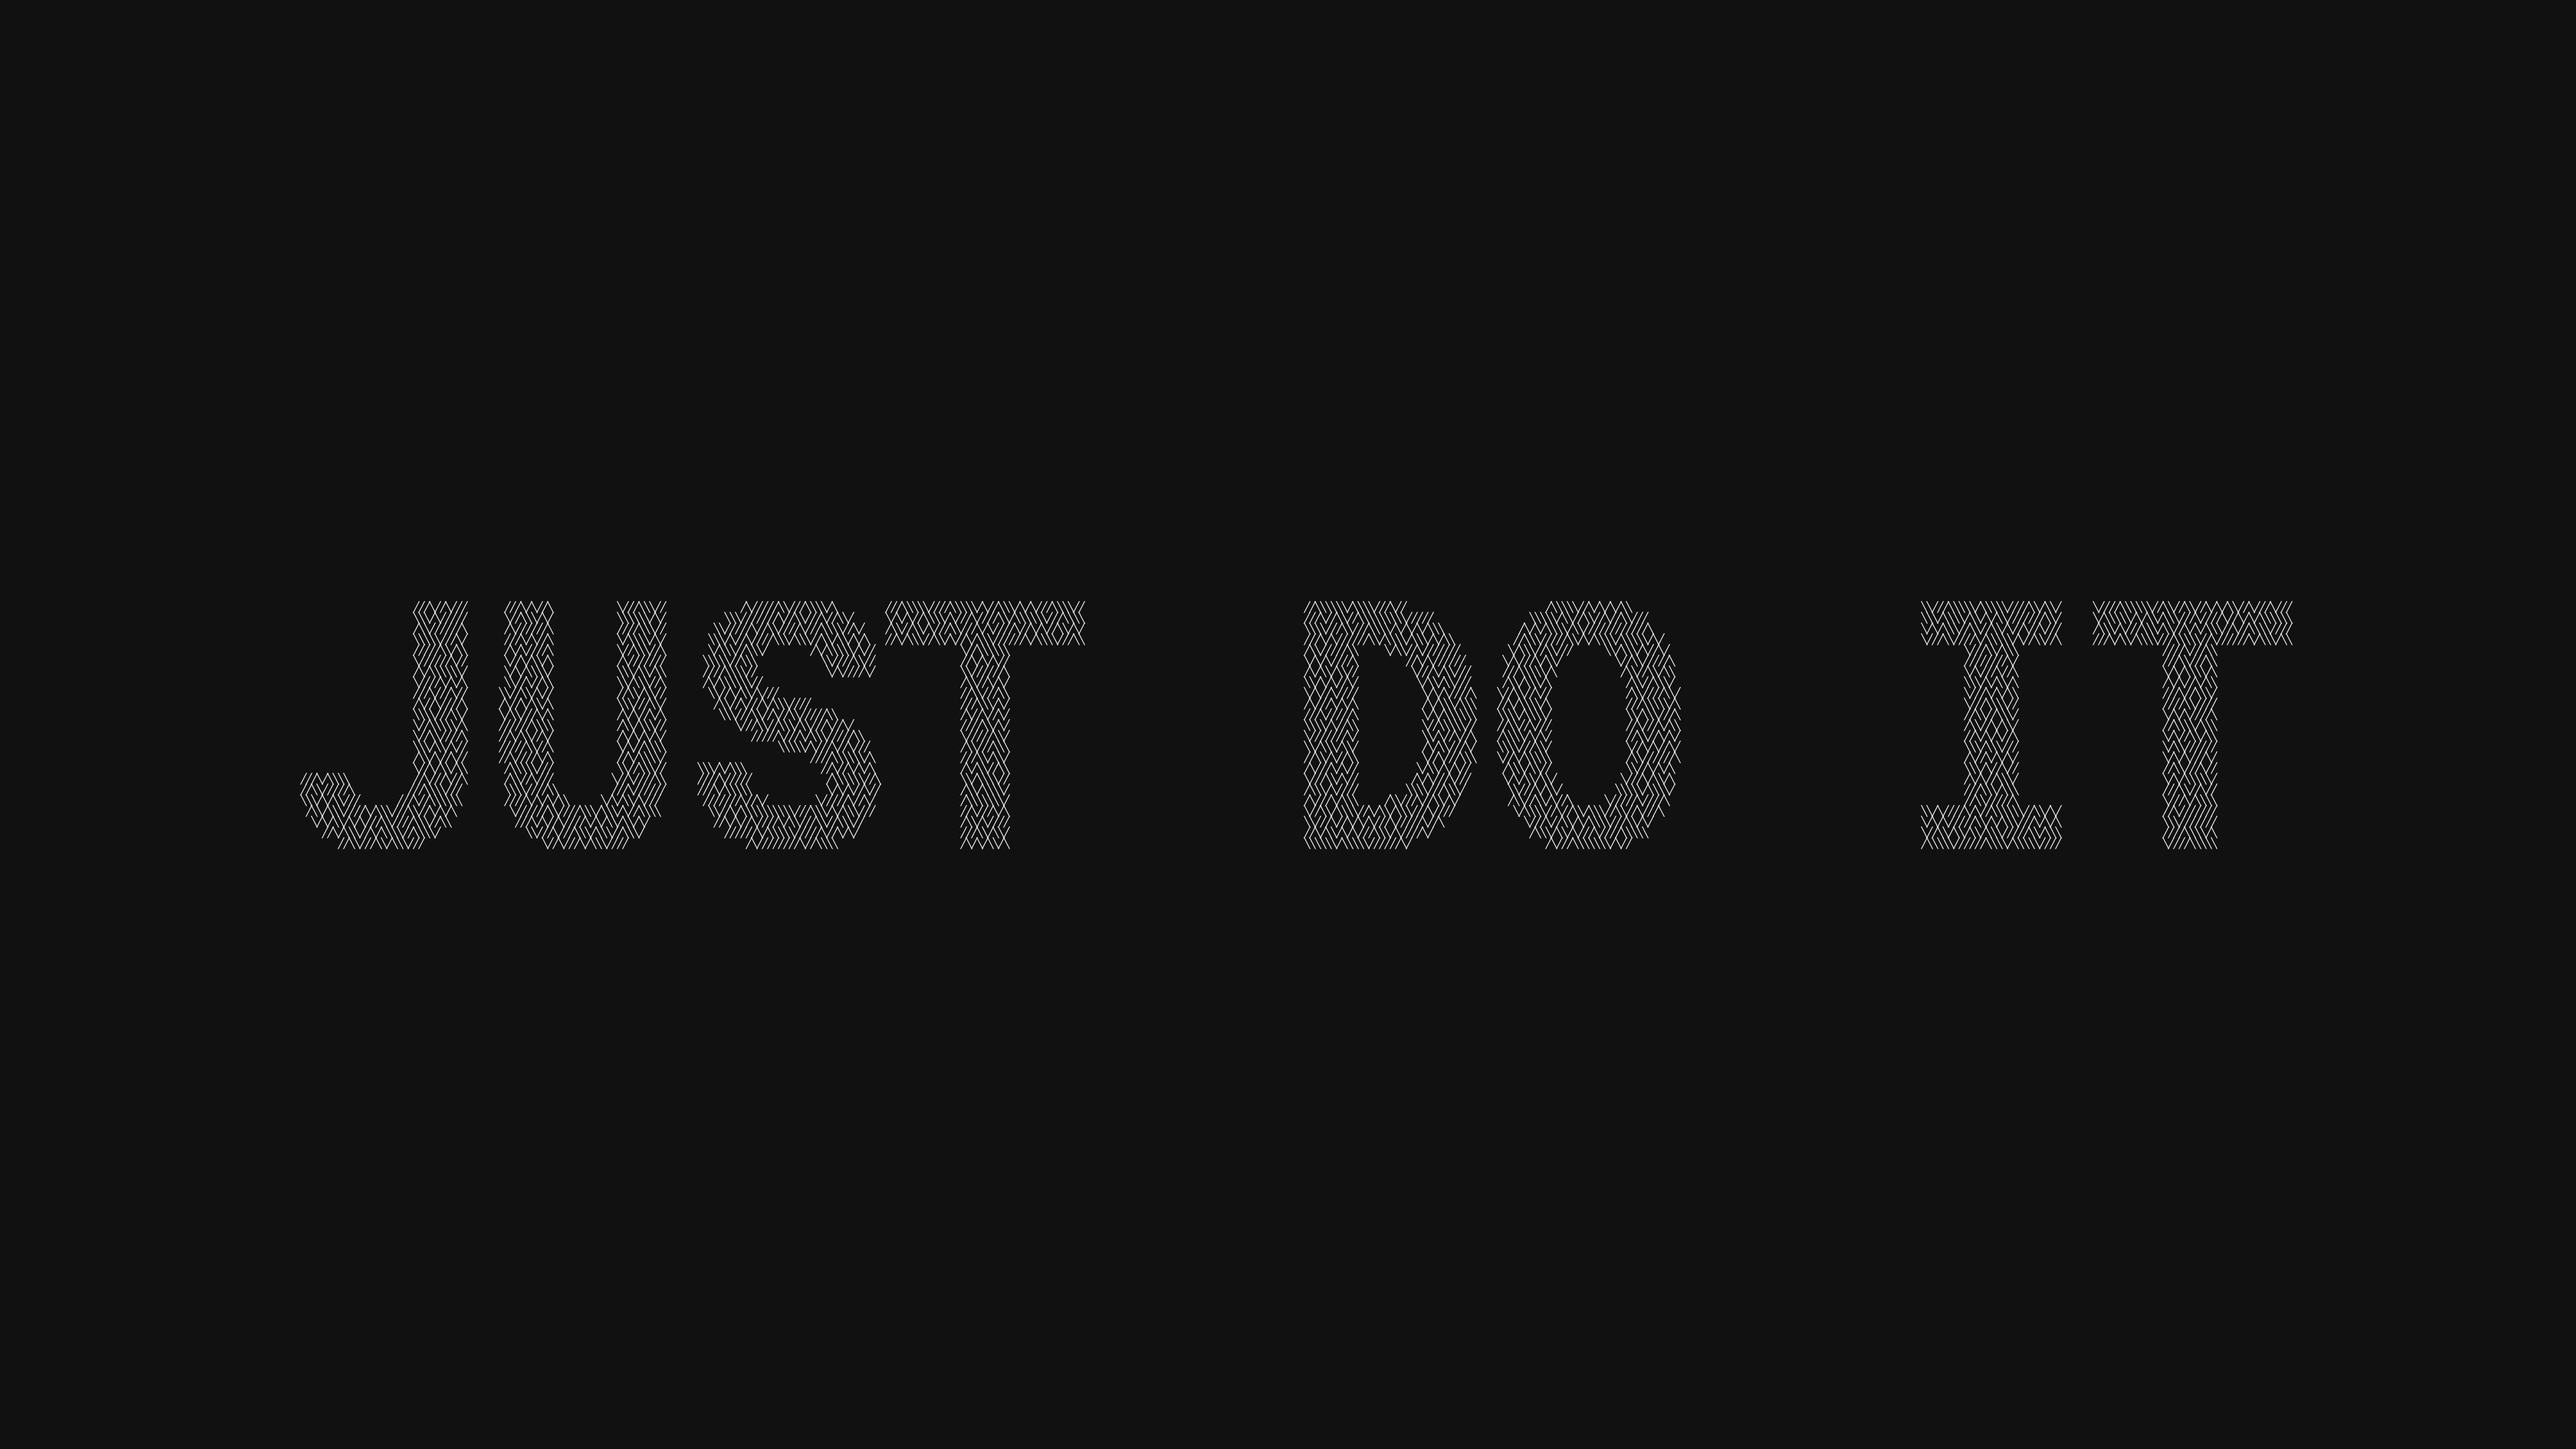
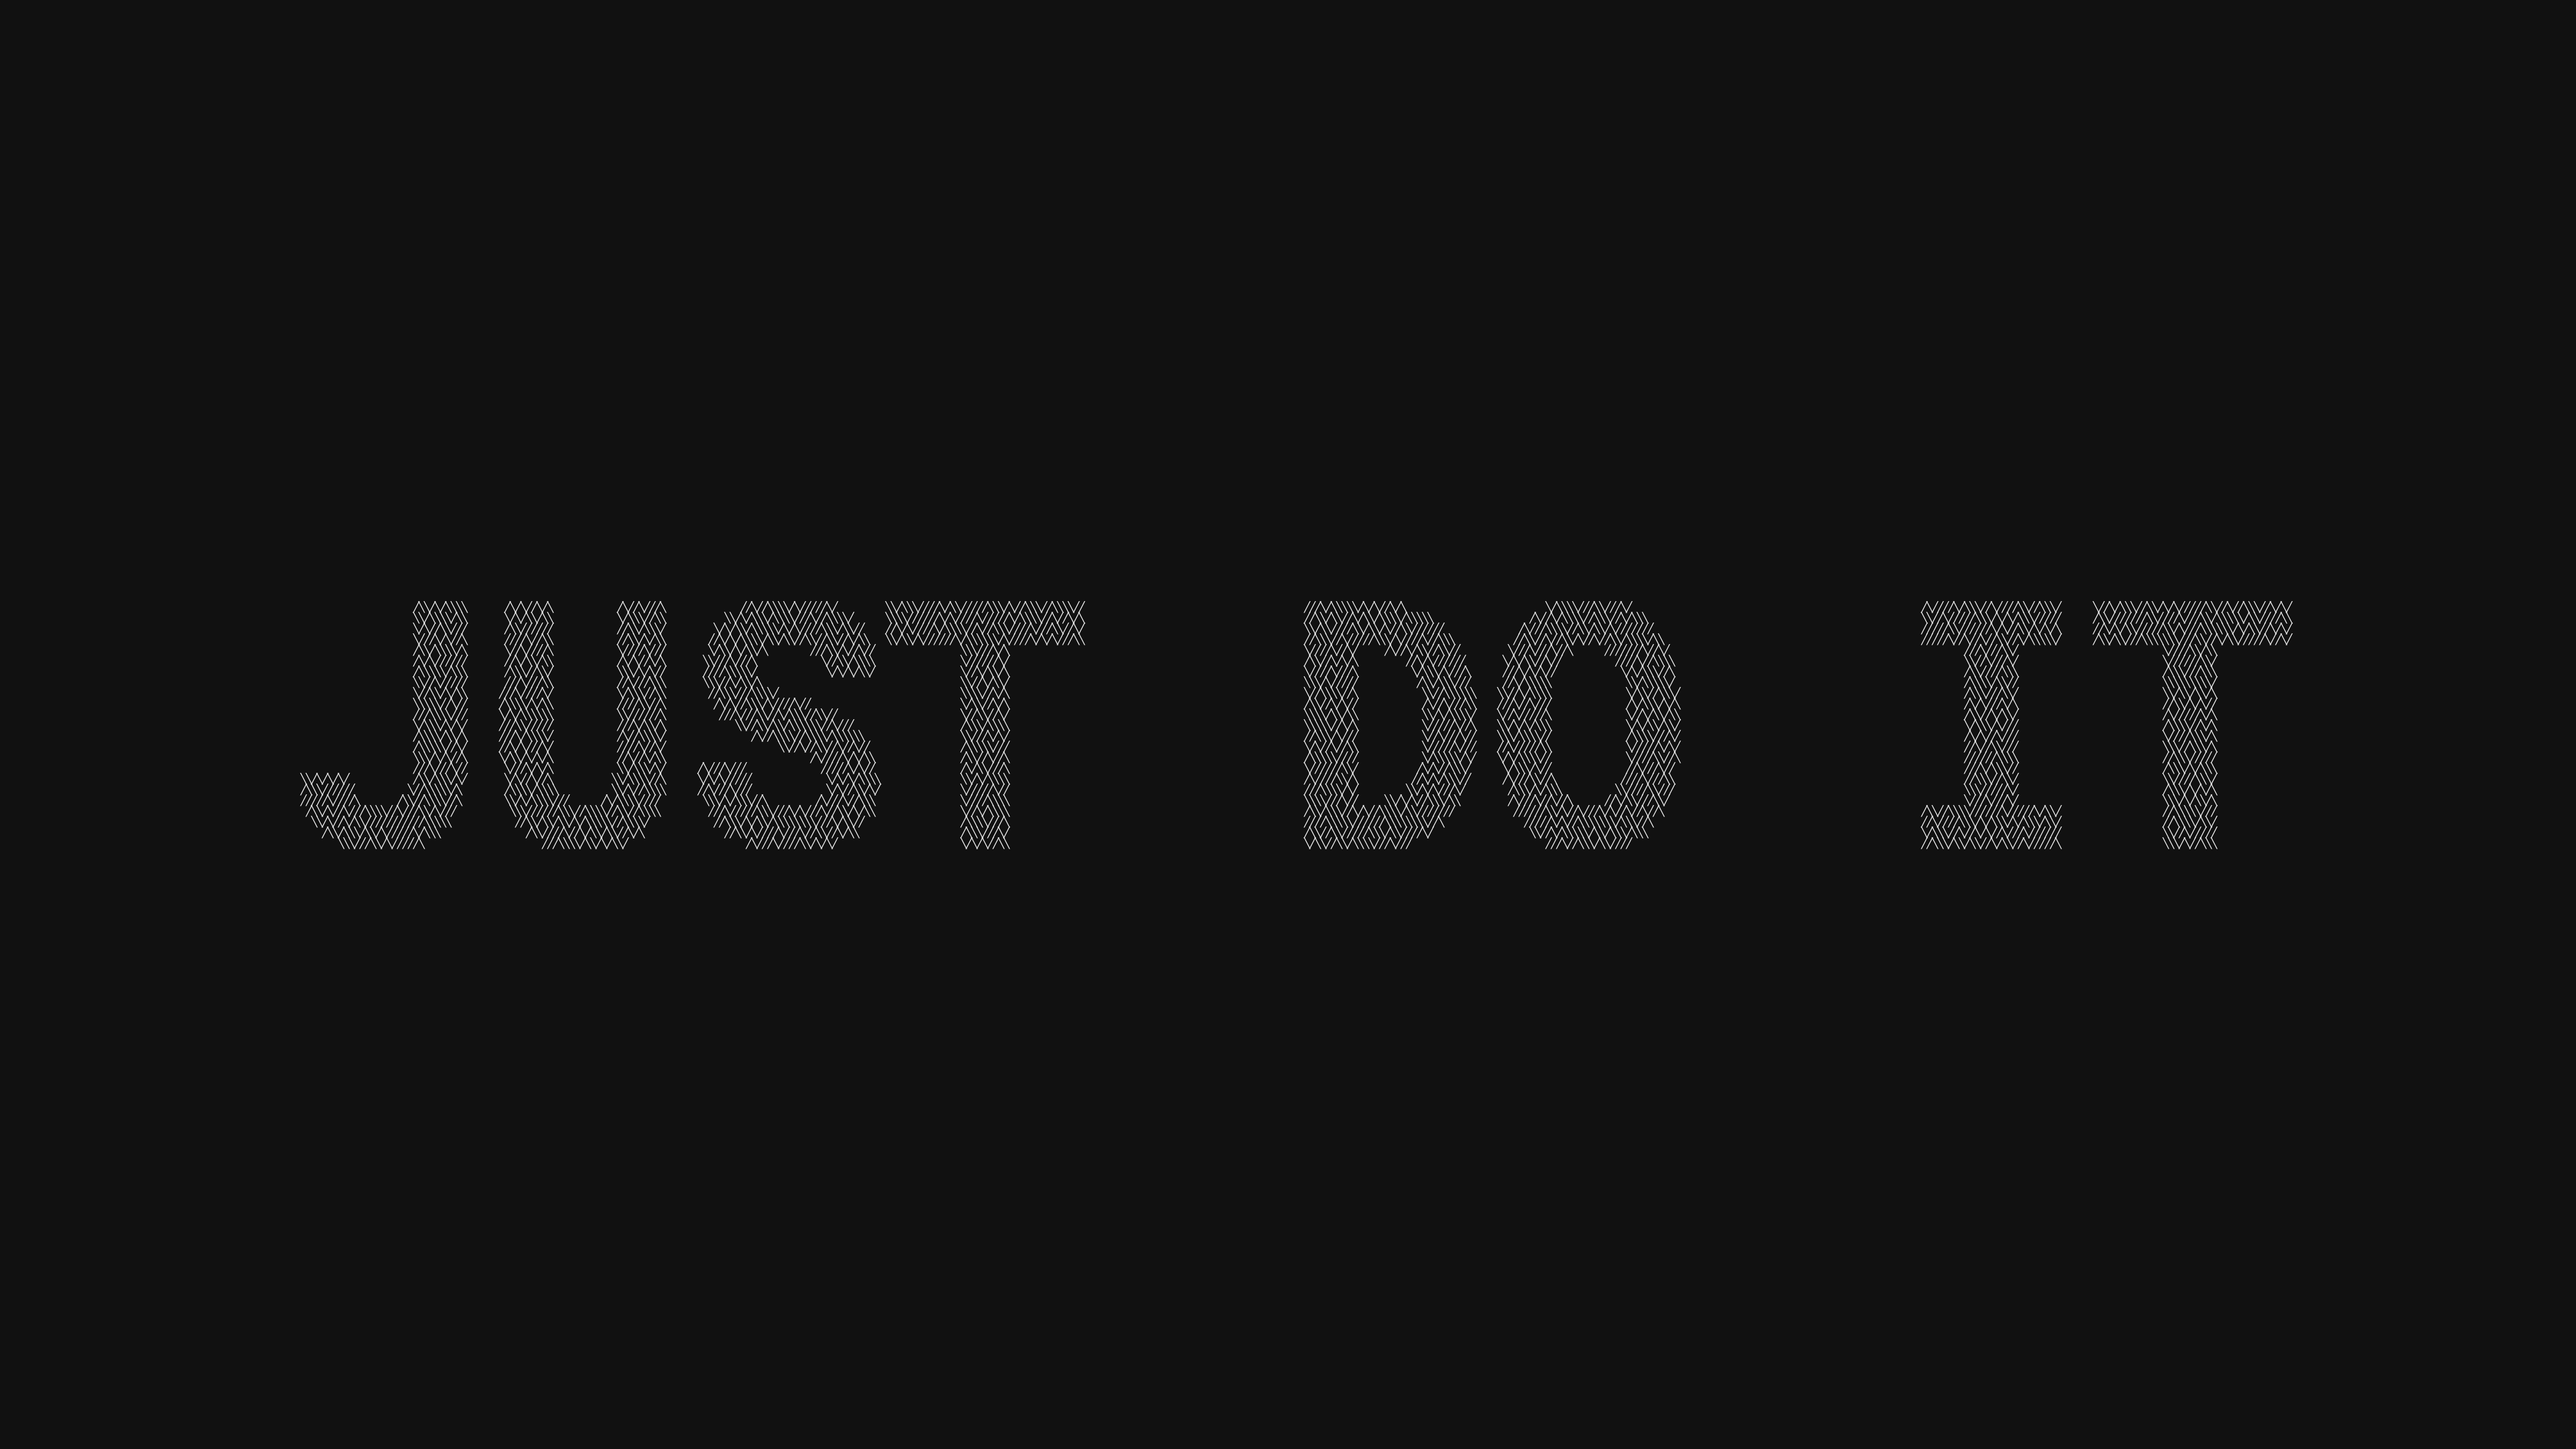
feat: SDF piecewise curve — floor/mid/high/power control
sdf_fill() now supports 3-point piecewise remapping:
  v < floor      -> 0.0  (hard exterior clip)
  floor -> mid   -> [0, 0.5]  outer glow ramp (power curve)
  mid   -> high  -> [0.5, 1.0] inner edge ring (power curve)
  v >= high      -> 1.0  solid interior (█)

Best params: floor=0.05, mid=0.5, high=0.85, power=1.0
  - Bright solid white interior
  - Crisp edge ring at mid boundary
  - Wide controlled glow halo that downscales to hex pattern at web scale

Gallery variants:
  S-G09-sdf:         best (floor=0.05, power=1.0) — atmospheric glow
  S-G09-sdf-outline: sharp (floor=0.1, power=2.0) — crisper edges
  S-G09-sdf-neon:    best + cyan->magenta gradient — stunning halo

diff --git a/justdoit/effects/fill.py b/justdoit/effects/fill.py
@@ -53,44 +53,104 @@ def density_fill(mask: list, density_chars: Optional[str] = None) -> list:
 
 
 # -------------------------------------------------------------------------
+def _sdf_remap(
+    v: float,
+    floor: float = 0.0,
+    mid: float = 0.5,
+    high: float = 0.85,
+    power: float = 1.0,
+) -> float:
+    """Piecewise SDF value remapper with configurable floor, mid, high and curve.
+
+    Three zones:
+      v < floor             → 0.0  (clipped — no character rendered)
+      floor ≤ v < mid       → [0.0, 0.5]  outer glow ramp (power curve)
+      mid   ≤ v < high      → [0.5, 1.0]  inner edge ring (power curve)
+      v ≥ high              → 1.0  solid interior (█)
+
+    power > 1: compress low values — sharper transition at floor/mid.
+    power = 1: linear ramps (same as gamma=1.0 but with hard floor/high clip).
+    power < 1: expand low values — softer wider glow.
+
+    :param v: SDF value in [0.0, 1.0].
+    :param floor: Below this → clipped to 0.  (default 0.0 = no clipping)
+    :param mid: Boundary between outer glow and inner ring (default 0.5 = edge)
+    :param high: Above this → solid █ (default 0.85)
+    :param power: Curve exponent for both ramp segments (default 1.0 = linear)
+    :returns: Remapped value in [0.0, 1.0].
+    """
+    if v < floor:
+        return 0.0
+    if v >= high:
+        return 1.0
+    if v < mid:
+        # Outer glow: floor → mid maps to 0.0 → 0.5
+        t = (v - floor) / max(mid - floor, 1e-6)
+        return 0.5 * (t ** power)
+    else:
+        # Inner edge ring: mid → high maps to 0.5 → 1.0
+        t = (v - mid) / max(high - mid, 1e-6)
+        return 0.5 + 0.5 * (t ** power)
+
+
 def sdf_fill(
     mask: list,
     density_chars: Optional[str] = None,
     gamma: float = 1.0,
     threshold: float = 0.0,
+    floor: float = 0.0,
+    mid: float = 0.5,
+    high: float = 0.85,
+    power: float = 1.0,
 ) -> list:
     """Fill using signed distance field — natural outline and shading effect.
 
     Computes the SDF of the mask (edge ≈ 0.5, interior → 1.0, exterior → 0.0),
-    optionally applies a threshold and/or gamma curve, then applies density_fill.
+    then applies one of two mapping modes:
 
-    threshold > 0: cells with SDF >= threshold use the densest char (█);
-    cells below threshold use the normal density ramp. Produces a bold solid
-    interior with a crisp edge ring of lighter chars.
-    e.g. threshold=0.5 fills everything > halfway from edge with █.
+    Piecewise curve mode (floor/mid/high/power):
+      v < floor  → clipped to 0 (no char — hard exterior cutoff)
+      floor→mid  → outer glow ramp [0.0 → 0.5] with power curve
+      mid→high   → inner edge ring [0.5 → 1.0] with power curve
+      v ≥ high   → solid █ interior
+      power > 1 sharpens transitions; power < 1 softens/widens glow.
 
-    gamma > 1.0 (without threshold): biases the ramp toward the interior.
-    gamma=1.0 is linear (default, original behaviour).
+    Legacy gamma mode (when floor=mid=0, high=0.85 defaults not set):
+      Apply v**gamma curve then density_fill.
+
+    threshold > 0: cells ≥ threshold use densest char (█) — hard interior fill.
 
     :param mask: 2D list of floats from glyph_to_mask() — values 0.0–1.0.
     :param density_chars: Darkest-to-lightest char sequence (default: DENSITY_CHARS).
-    :param gamma: Curve exponent applied to SDF values before density mapping.
-    :param threshold: SDF threshold above which the densest char is used (0=off).
+    :param gamma: Legacy gamma exponent (used when floor=0 and mid=0).
+    :param threshold: Legacy hard threshold for densest char (0=off).
+    :param floor: Piecewise floor — below this is clipped to 0 (default 0.0).
+    :param mid: Piecewise midpoint — boundary between glow and ring (default 0.5).
+    :param high: Piecewise high — above this is solid interior (default 0.85).
+    :param power: Curve exponent for both ramp segments (default 1.0 = linear).
     :returns: List of strings — one per row, same shape as input mask.
     """
     sdf = mask_to_sdf(mask)
+
+    # Piecewise mode: floor/mid/high/power all defined
+    use_piecewise = (floor > 0.0 or mid != 0.5 or high != 0.85 or power != 1.0)
+    if use_piecewise:
+        sdf = [[
+            _sdf_remap(v, floor=floor, mid=mid, high=high, power=power)
+            for v in row
+        ] for row in sdf]
+        return density_fill(sdf, density_chars)
+
+    # Legacy threshold mode
     if threshold > 0.0:
-        # Threshold mode: solid interior + narrow edge ramp
-        chars = density_chars if density_chars is not None else DENSITY_CHARS
-        densest = chars[0]  # █ when block chars are in the ramp
-        # Build modified SDF: above threshold → 1.0 (maps to densest char)
-        # below threshold → rescale [0, threshold] → [0, 0.9] for edge ramp
-        scale = 0.9 / threshold if threshold > 0 else 1.0
+        scale = 0.9 / threshold
         sdf = [[
             1.0 if v >= threshold else v * scale
             for v in row
         ] for row in sdf]
         return density_fill(sdf, density_chars)
+
+    # Legacy gamma mode
     if gamma != 1.0:
         sdf = [[v ** gamma for v in row] for row in sdf]
     return density_fill(sdf, density_chars)

diff --git a/scripts/generate_gallery.py b/scripts/generate_gallery.py
@@ -960,12 +960,16 @@ def _curated_entries_g09(
     # SDF renders chars for BOTH ink AND exterior-glow cells (distance falloff).
     # At web scale the exterior cells downscale into a geometric halo pattern
     # that is part of the aesthetic, not an artifact. Keep all 4 gamma variants.
+    # SDF piecewise curve: floor/mid/high/power gives bright solid interior,
+    # crisp edge ring, and controlled glow halo — better than gamma alone.
+    # Best: floor=0.05, mid=0.5, high=0.85, power=1.0
+    _SDF_BEST = {"floor": 0.05, "mid": 0.5, "high": 0.85, "power": 1.0}
+    _SDF_SHARP = {"floor": 0.1,  "mid": 0.5, "high": 0.85, "power": 2.0}
     _strategy_c = [
-        ("S-G09-density",     "G09+F01 — Density (hi-res)",         "density", {}),
-        ("S-G09-sdf",         "G09+F06 — SDF glow (linear)",         "sdf",    {"gamma": 1.0}),
-        ("S-G09-sdf-outline", "G09+F06 — SDF outline (gamma 1.8)",  "sdf",    {"gamma": 1.8}),
-        ("S-G09-sdf-mid",     "G09+F06 — SDF bold (gamma 3.0)",     "sdf",    {"gamma": 3.0}),
-        ("S-G09-shape",       "G09+F07 — Shape (hi-res)",           "shape",  {}),
+        ("S-G09-density",     "G09+F01 — Density (hi-res)",          "density", {}),
+        ("S-G09-sdf",         "G09+F06 — SDF glow",                   "sdf",    _SDF_BEST),
+        ("S-G09-sdf-outline", "G09+F06 — SDF sharp",                 "sdf",    _SDF_SHARP),
+        ("S-G09-shape",       "G09+F07 — Shape (hi-res)",            "shape",  {}),
     ]
     for stem, label, fill_name, fkw in _strategy_c:
         print(f"    G09 Strategy C: {stem.split('-')[-1]} ...")
@@ -984,7 +988,7 @@ def _curated_entries_g09(
     # visible at web scale — this is intentional, not an artifact.
     add("S-G09-sdf-neon", "G09+F06 — SDF + neon",
         _apply_char_fill_to_grid(base_grid, "sdf",
-                                 fill_kwargs={"gamma": 1.8},
+                                 fill_kwargs=_SDF_BEST,
                                  color_fn=lambda g: _apply_gradient_color(g, grid_cols, grid_rows,
                                                                           "diagonal",
                                                                           [(0, 255, 200), (255, 80, 255)])))
